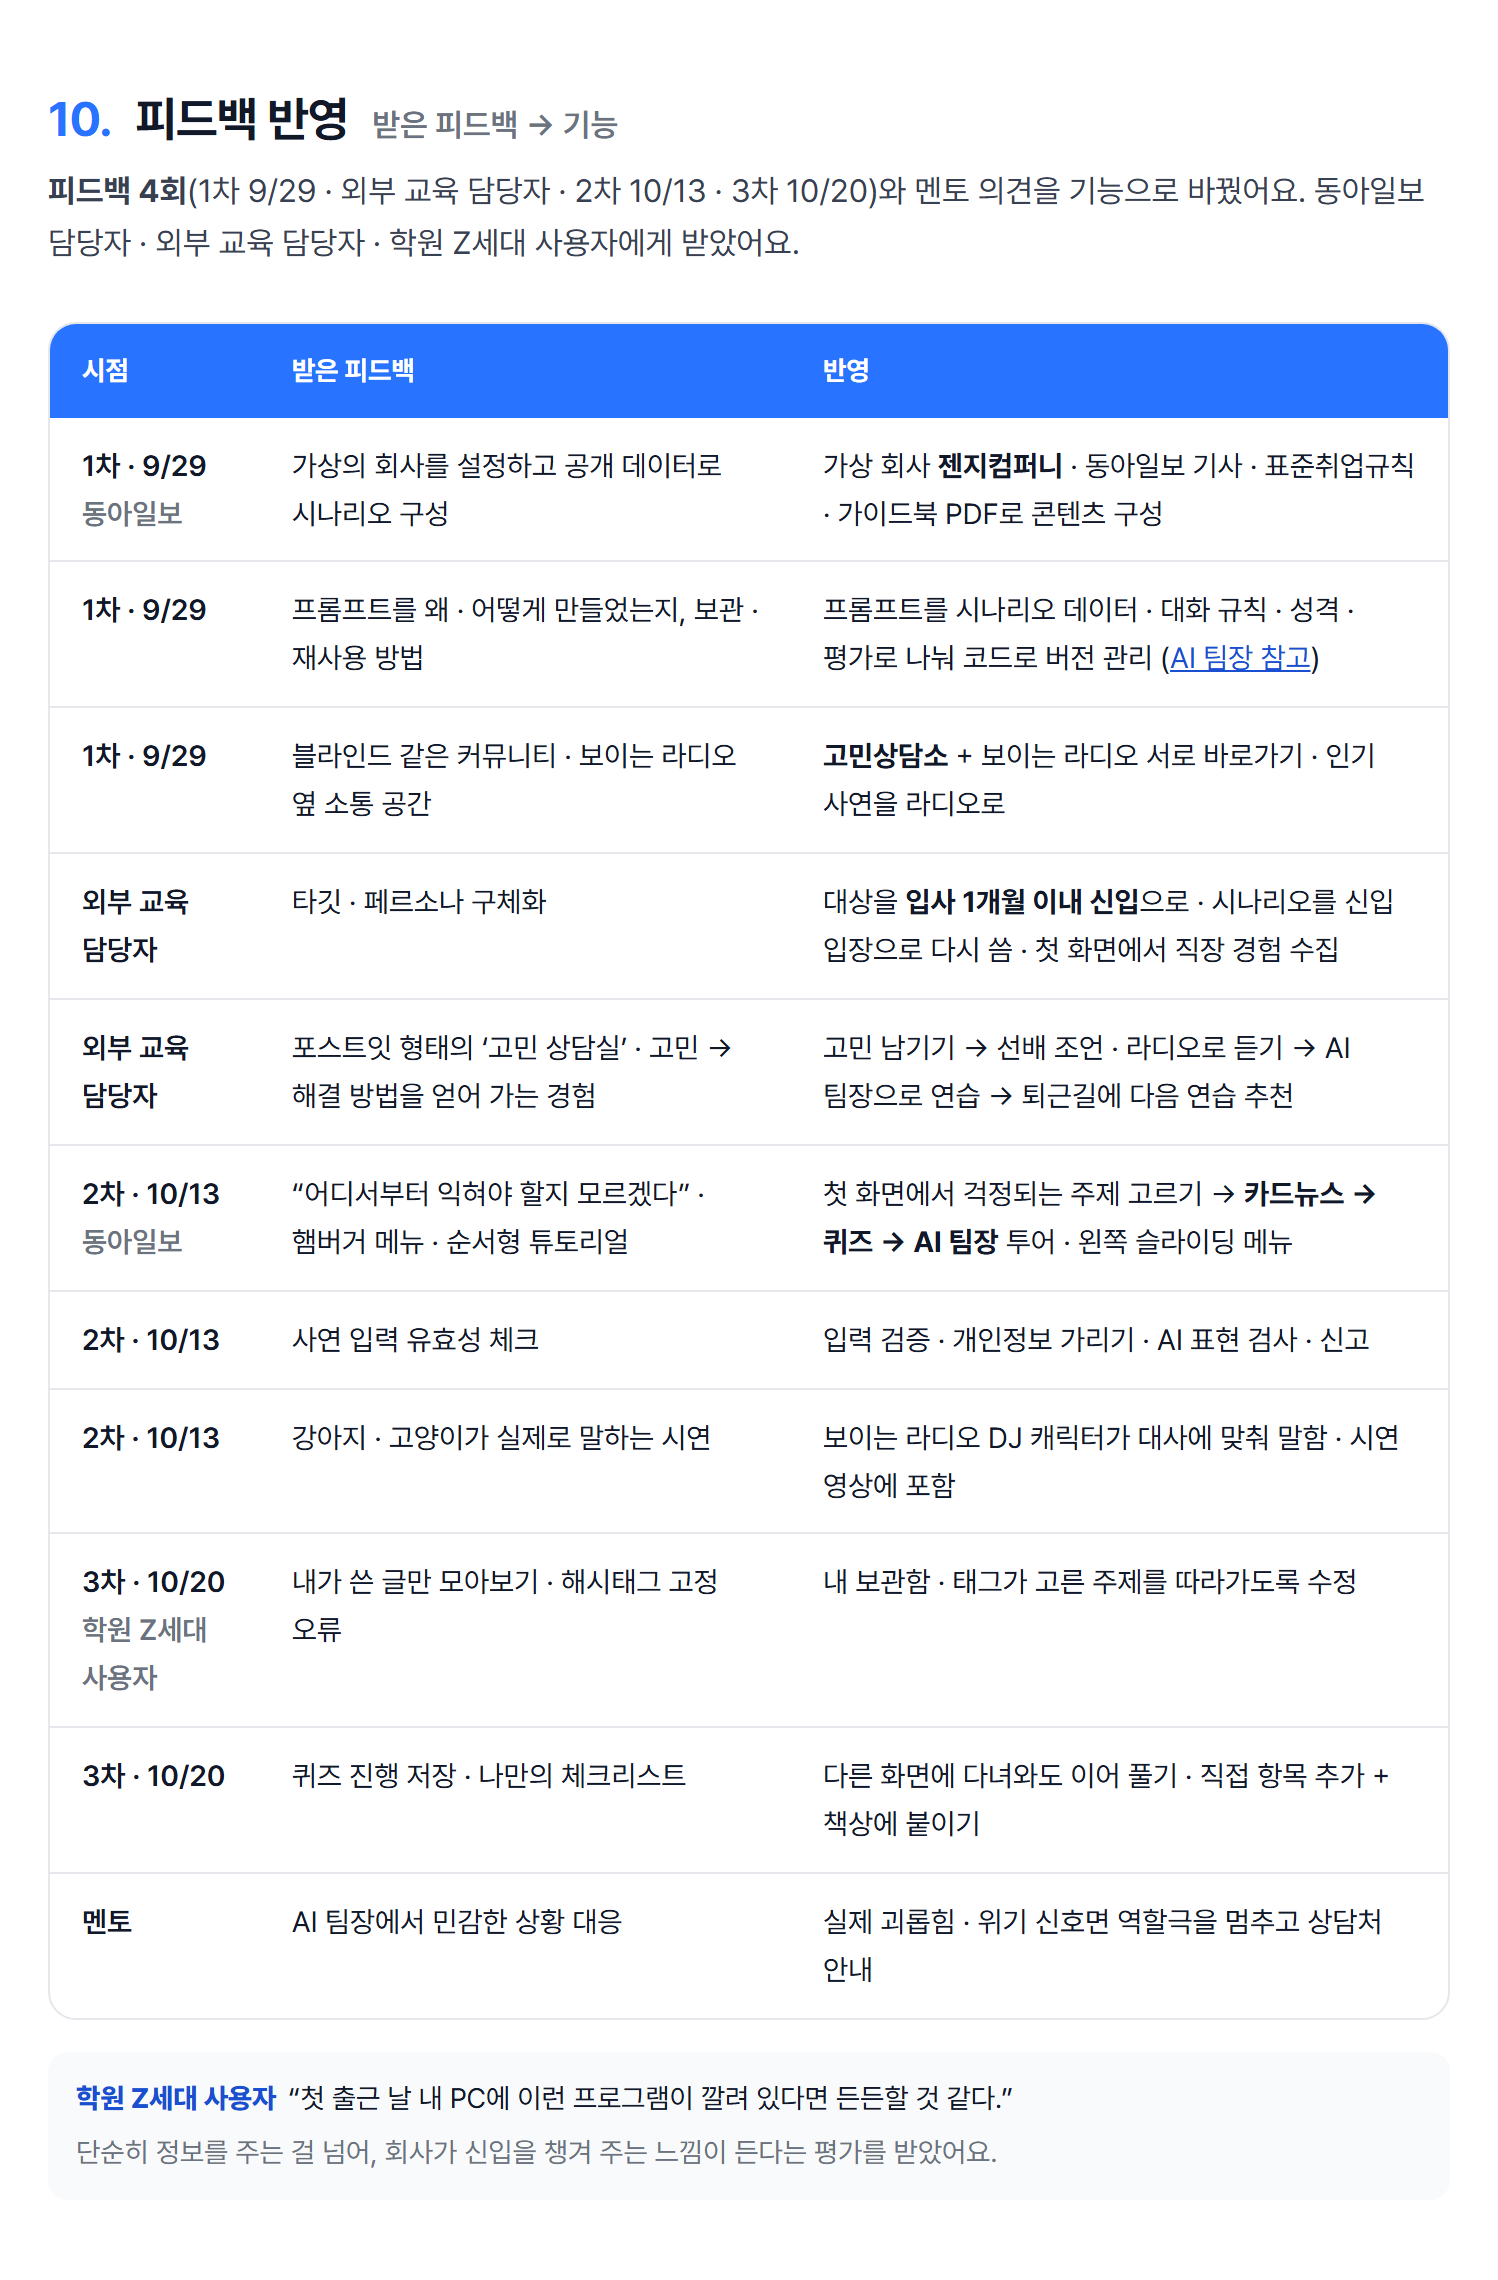
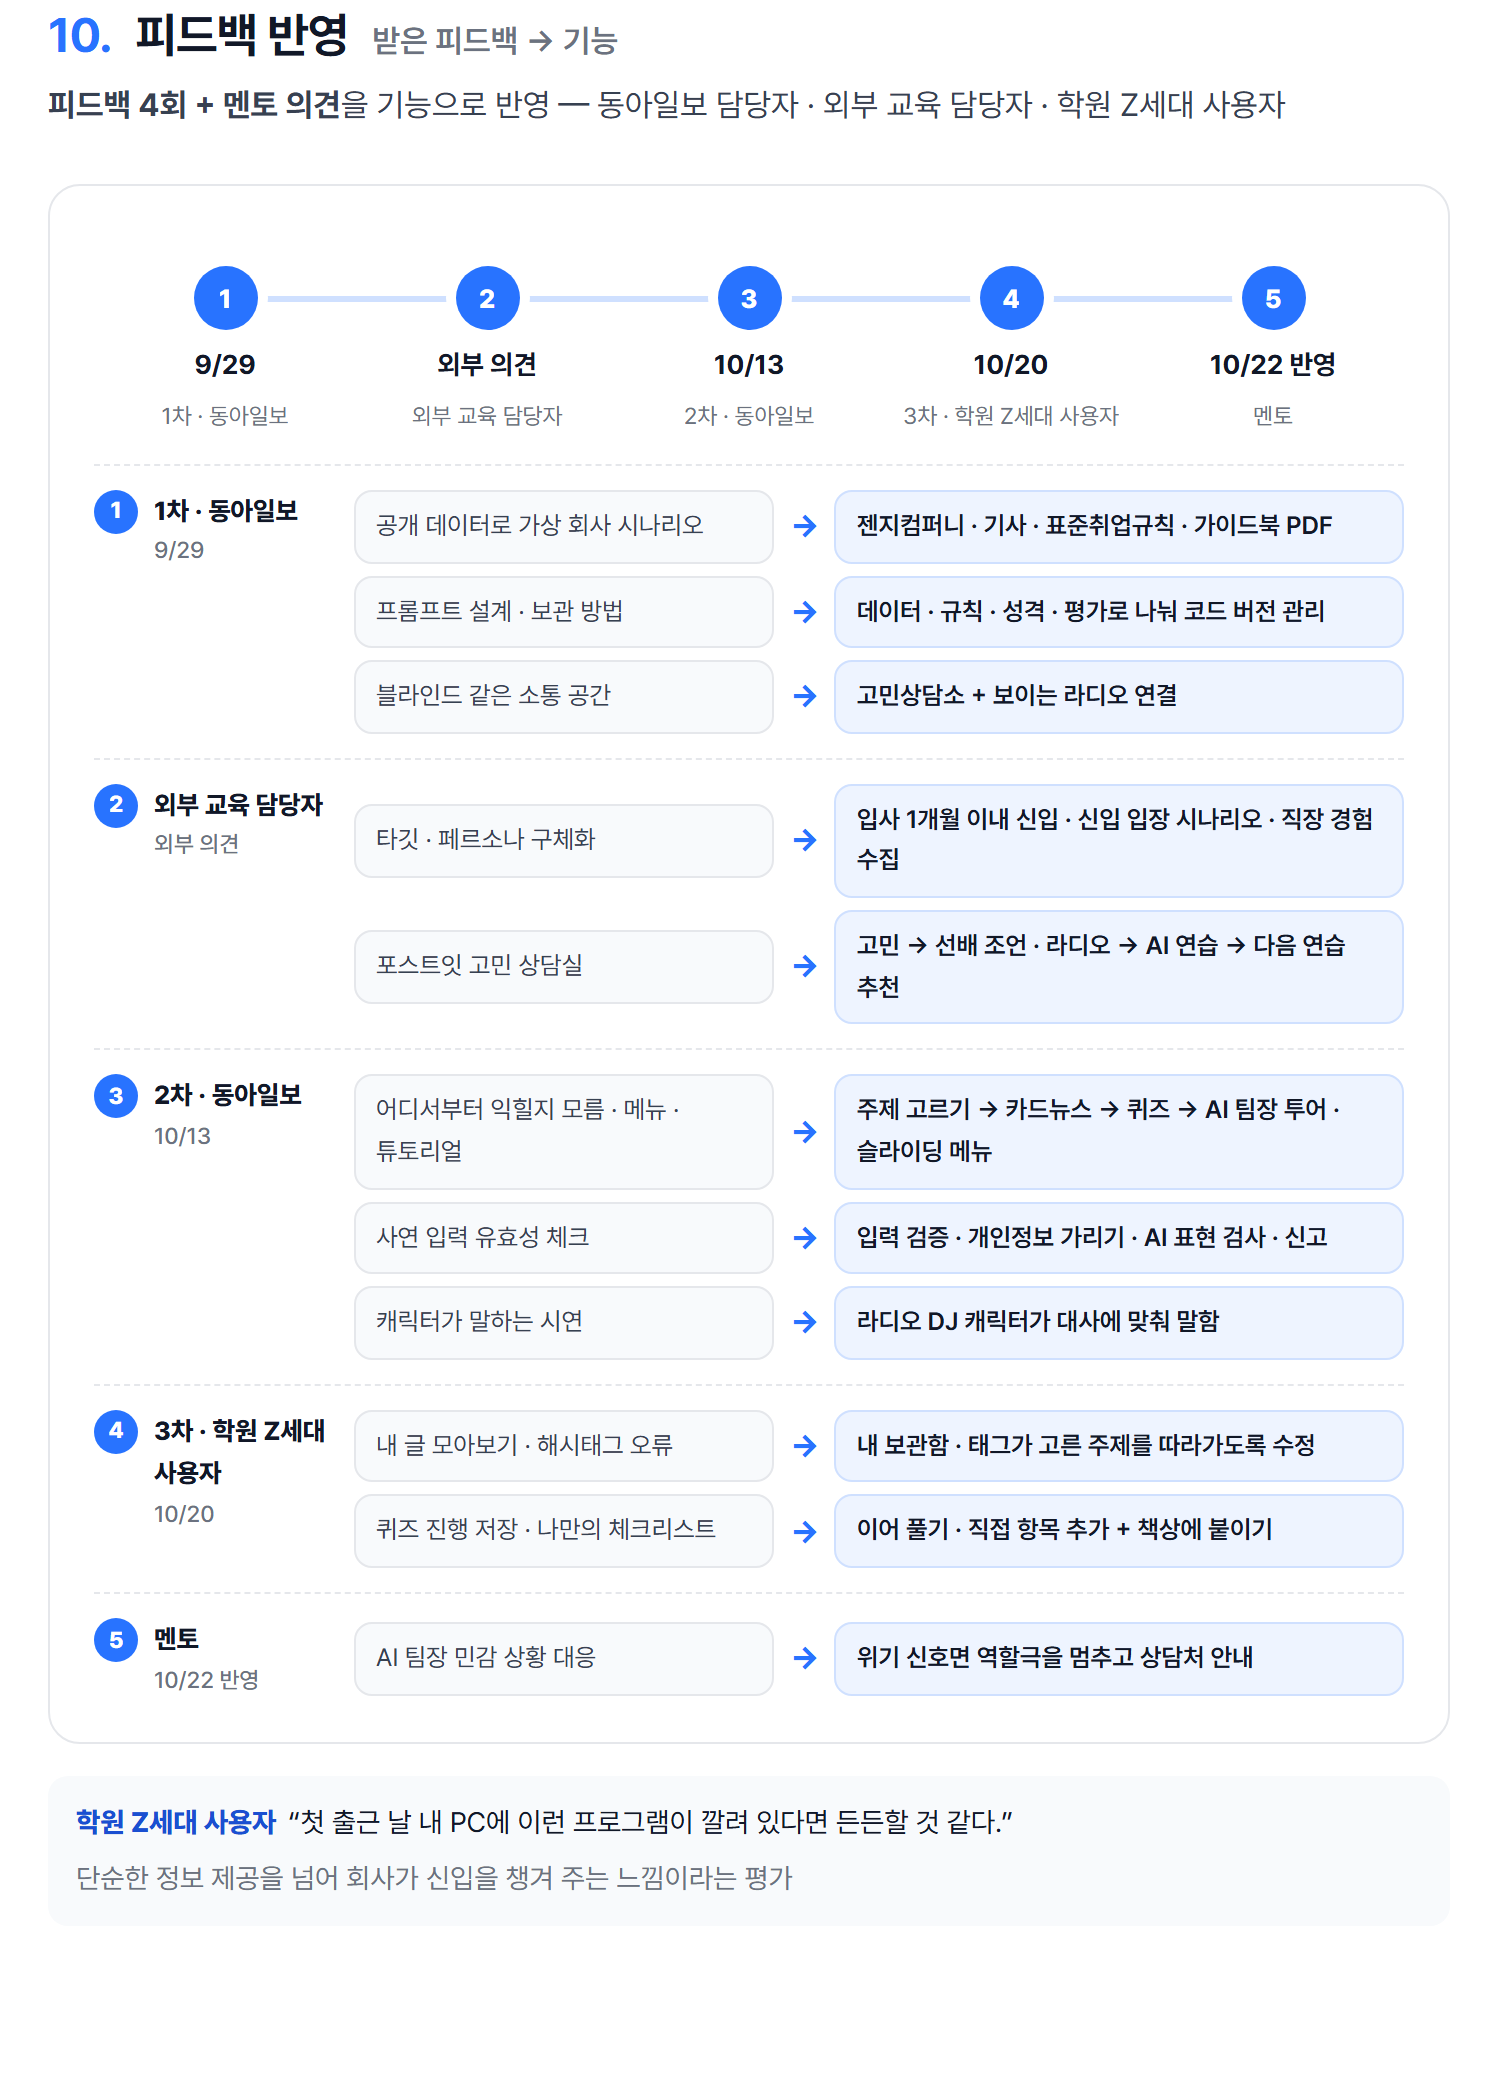
피드백 반영: 날짜 타임라인 그래프로

diff --git a/README.md b/README.md
@@ -98,7 +98,7 @@
 
 <a name="s10"></a>
 
-![10. 피드백 반영 — 받은 피드백 → 기능](docs/sections/feedback.png)
+![10. 피드백 반영 — 날짜별 타임라인](docs/sections/feedback.png)
 
 ---
 
